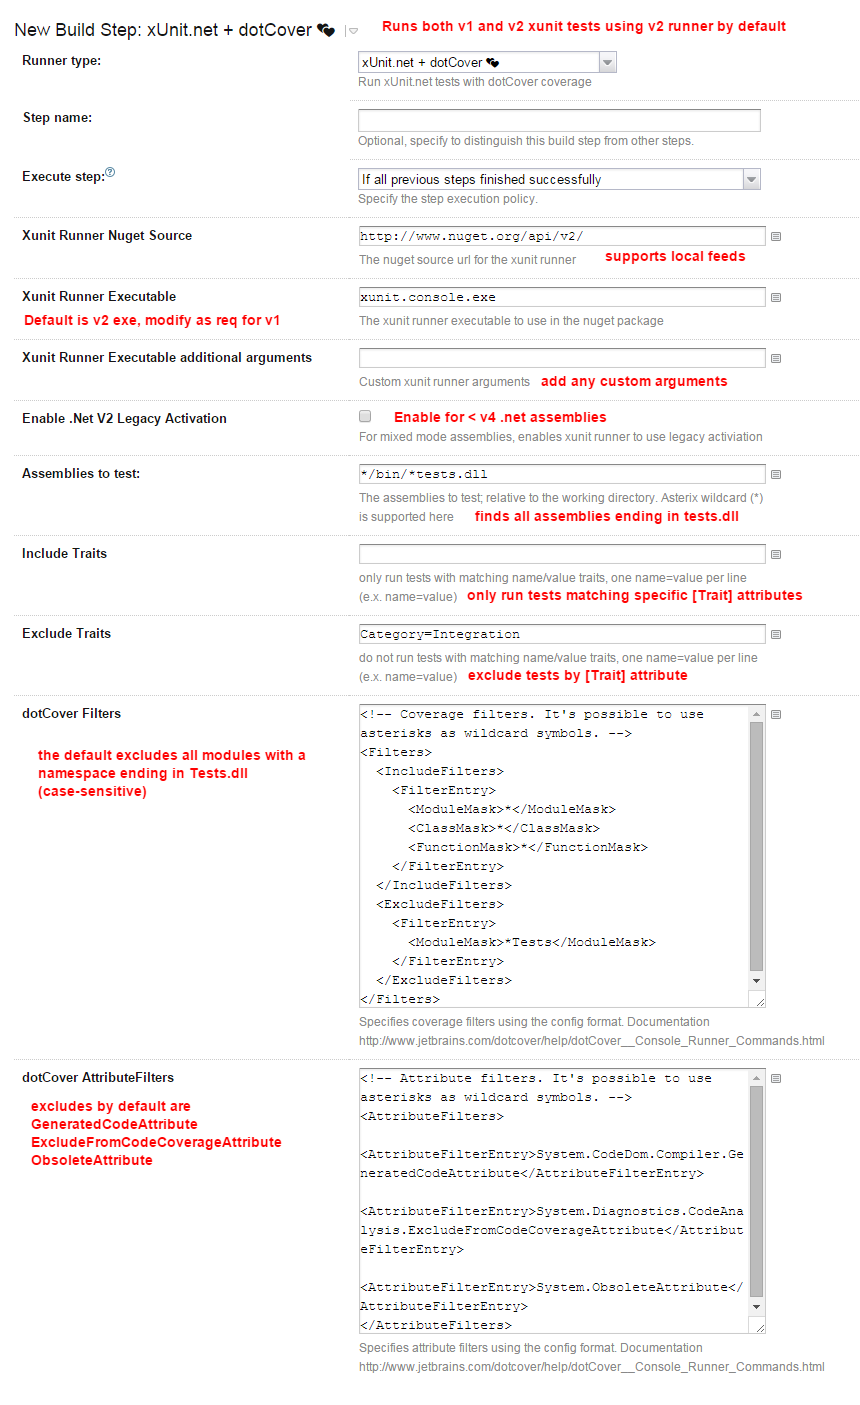
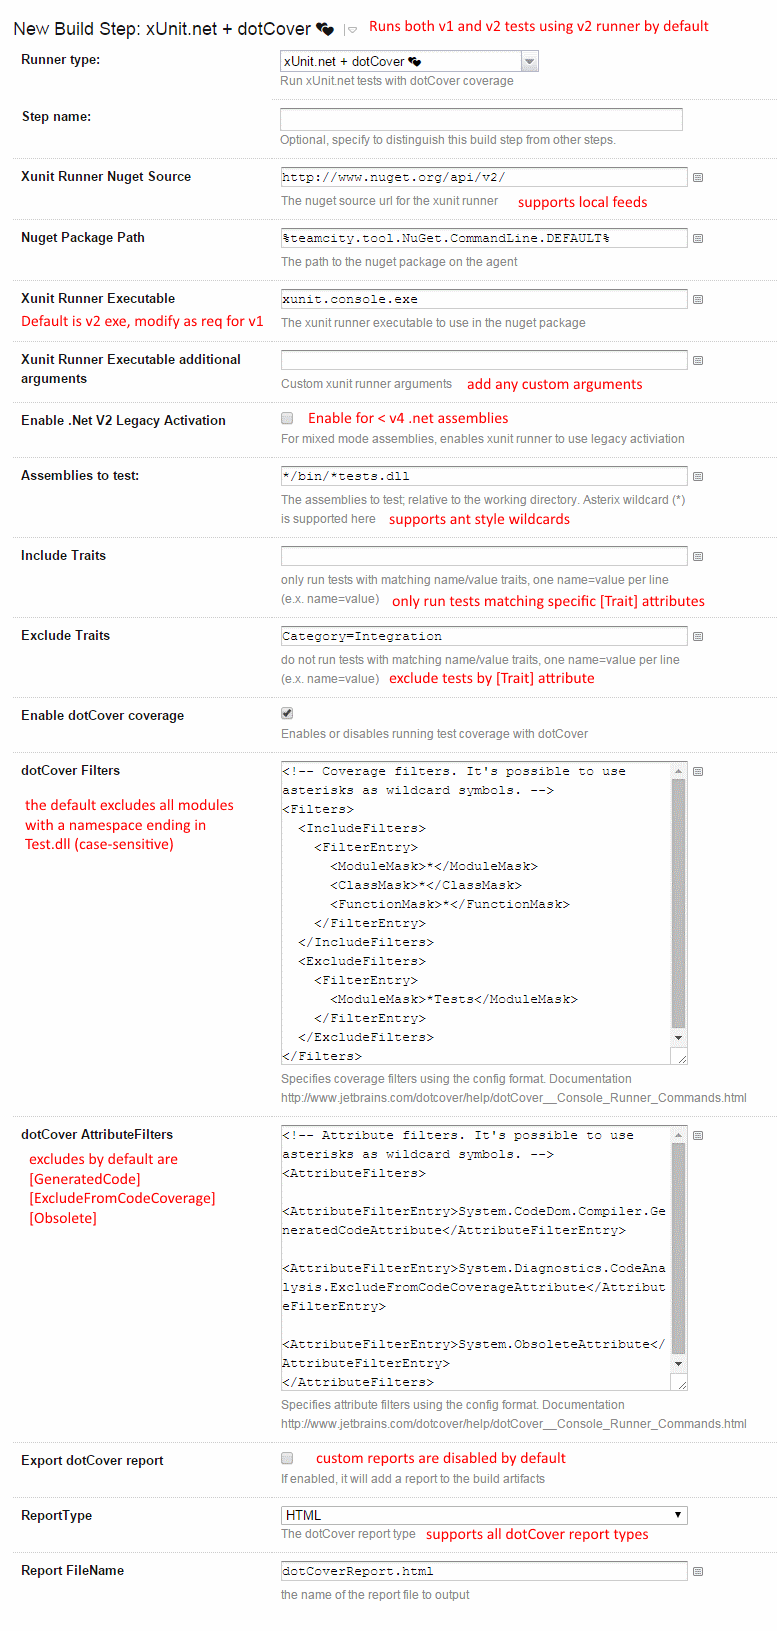
Running coverage on tests is now optional and enabled by default Fixes #67 and surfaces this option to the build step to override Adds support for generating dotCover reports as per #68

diff --git a/xUnit.net-dotCover/README.md b/xUnit.net-dotCover/README.md
@@ -17,9 +17,10 @@ What it does
  
 * downloads the latest available console runner from a local or remote nuget feed
 * uses wildcard searching to find and run xUnit.net tests
-* provides dotCover coverage reporting and statistics back to Teamcity.
+* (Optional) provides dotCover coverage reporting and statistics back to Teamcity.
 * return error codes to fail builds.
 * Supports both xUnit.net v1.x and v2.x test assemblies.
+* (Optional) generates dotCover report
 
 Artifacts
 ---------
@@ -29,6 +30,7 @@ The following files are published as build artifacts by this runner
 * dotCover configuration xml
 * dotCover logs
 * coverage files (*.dcvr)
+* dotCover Report (html, json, xml, ndependxml)
 
 Configuration Option Defaults*
 -----------------------------
